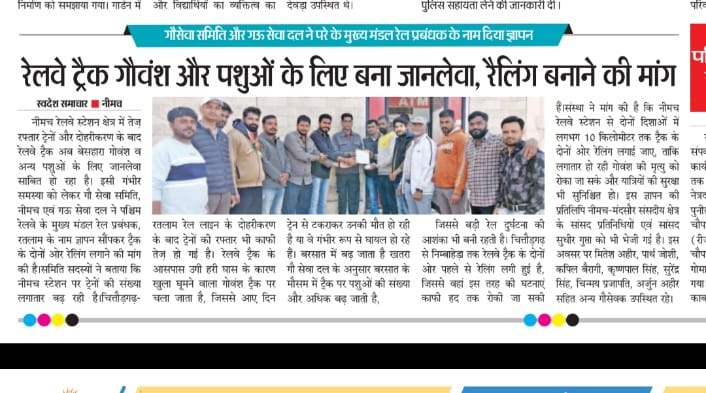
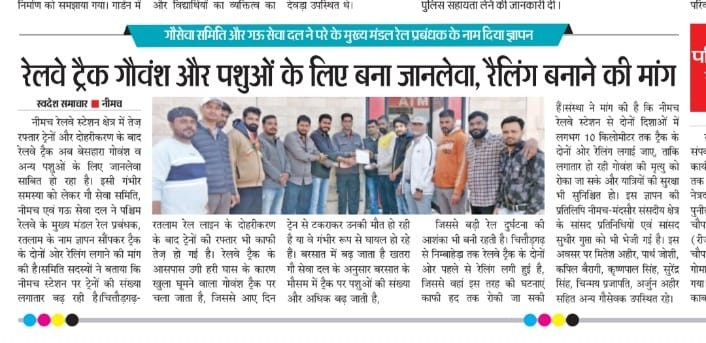
Done

diff --git a/index.html b/index.html
@@ -579,9 +579,9 @@
           <h3>रेलवे ट्रैक गौवंश और पशुओं के लिए बना जानलेवा, रेलिंग बनाने की मांग</h3>
         </div>
       </div>
-      <div class="press-card" data-lightbox data-img="assets/newspaper cuttings/4.jpeg">
+      <div class="press-card" data-lightbox data-img="assets/newspaper cuttings/3.jpeg">
         <div class="press-card__img placeholder-img">
-          <img src="assets/newspaper cuttings/4.jpeg" alt="इंदिरा नगर में गौ माता की जान बचाई, पेट से मृत बच्चे को ऑपरेशन कर निकाला" loading="lazy" />
+          <img src="assets/newspaper cuttings/3.jpeg" alt="इंदिरा नगर में गौ माता की जान बचाई, पेट से मृत बच्चे को ऑपरेशन कर निकाला" loading="lazy" />
         </div>
         <div class="press-card__caption">
           <span>दैनिक भास्कर · 03 फरवरी</span>
